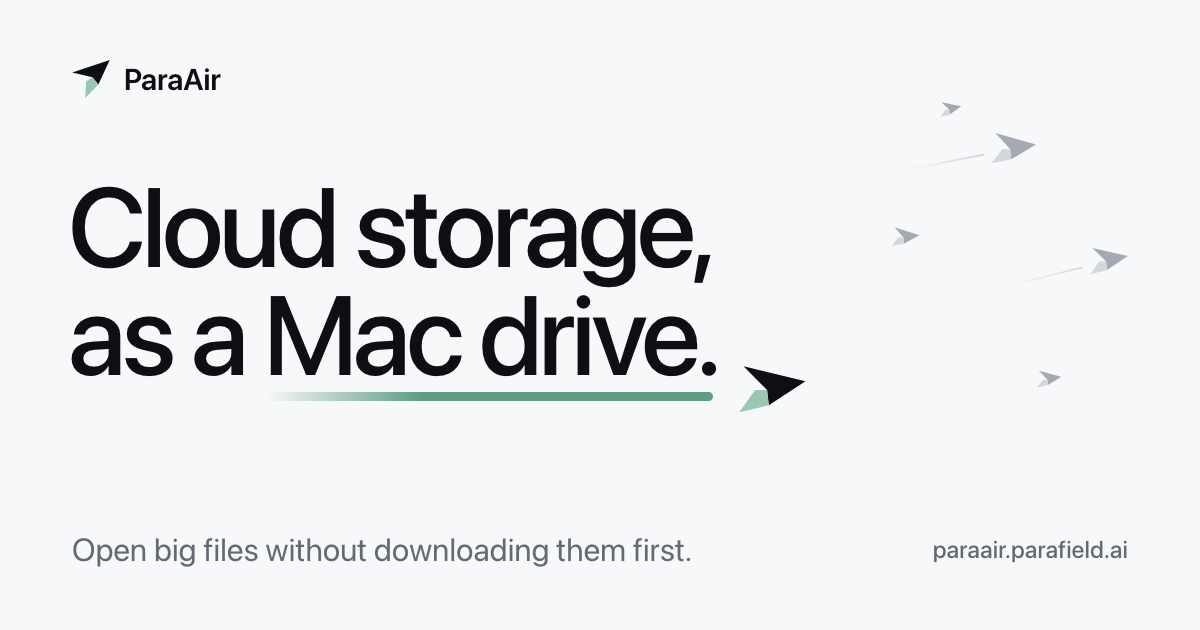
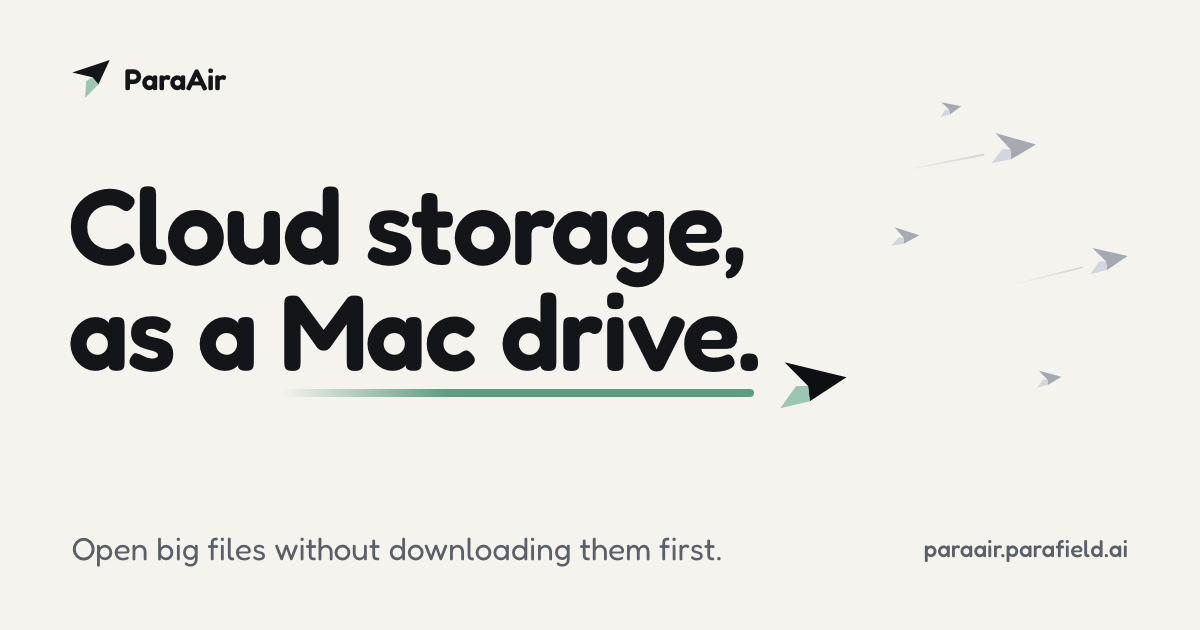
Site: one ParaAir mark, the app's, everywhere (#98)
ParaAir had two logos: the app's flat polygon plane with the sage tail
(Dock icon, menu bar, Finder drive icon, the link preview card) and the
launch redesign's shaded curved dart (website header, footer, Download
buttons, browser tab icon). The owner chose the app's mark as the one
logo. This puts it everywhere on the website, with no app change.

**What changes**
- **Marks on every page:** the header mark on all 13 pages, the pricing
table's and footer's, and the home page's shared symbols (`i-plane` on
paper, `i-plane-paper` on the ink Download buttons) are the app's two
polygons, coloured by the site's `.mark-a` / `.mark-b` (ink and sage).
On the ink buttons the wing is the app icon's paper (`--mark-paper:
#F1EFE7`).
- **Generator:** `scripts/build-legal-pages.py` draws the same mark, so
rebuilding the legal pages keeps it.
- **Tab icon:** `site/icon.svg` is the app icon's own SVG
(`macOS/Resources/ParaAirIcon.svg`); `glide.svg` is deleted.
`favicon.ico` was already the app icon and rebuilds byte-identical.
- **`site/logo-mark.svg`:** the mark on its own, ink and sage.
- **Drawn planes:** the small planes `motion.js` flies and the paper
plane `home.js` paints are the same two polygons.
- **Link preview card:** `scripts/og-card.html` now uses the site's
Fredoka on its warm paper, and `site/og-card.png` is rebuilt with
`scripts/build-site-images.sh`. Its mark already matched.

**Stays as is:** the hero's 3D plane that flies the story and lands on
[…]

diff --git a/site/pricing.html b/site/pricing.html
@@ -21,7 +21,7 @@
   <meta name="twitter:description" content="ParaAir is free and open source with your own storage. ParaAir Cloud Personal is $10 a month or $100 a year for 1 TB, half the price of Space, with a 7-day free trial.">
   <meta name="twitter:image" content="https://paraair.parafield.ai/og-card.png">
   <meta name="twitter:image:alt" content="The ParaAir paper plane and the words: Cloud storage, as a Mac drive.">
-  <link rel="icon" href="glide.svg" type="image/svg+xml">
+  <link rel="icon" href="icon.svg" type="image/svg+xml">
   <link rel="stylesheet" href="home.css">
   <link rel="stylesheet" href="pricing.css">
 </head>
@@ -33,7 +33,7 @@
 
   <header class="bar">
     <a class="brand" href="/" aria-label="ParaAir home">
-      <svg class="brand-mark" viewBox="0 0 100 100" aria-hidden="true"><defs><linearGradient id="bm-wingLit" gradientUnits="userSpaceOnUse" x1="93.6" y1="4" x2="6.4" y2="81.2"><stop offset="0" stop-color="#33353B"/><stop offset="1" stop-color="#0E0F12"/></linearGradient><linearGradient id="bm-keelLit" gradientUnits="userSpaceOnUse" x1="93.6" y1="4" x2="55.1" y2="96"><stop offset="0" stop-color="#D9DBDF"/><stop offset="1" stop-color="#9A9EA6"/></linearGradient><linearGradient id="bm-wing" gradientUnits="userSpaceOnUse" x1="93.6" y1="4" x2="40.2" y2="81.1"><stop offset="0" stop-color="#74787F"/><stop offset="1" stop-color="#42454C"/></linearGradient></defs><path fill="url(#bm-wingLit)" d="M89.6 9.8L40.2 81.1Q25.8 79.1 11.4 81.2Q6.4 81.2 10.1 77.9Q42.3 35.4 88.4 8.6Q93.6 4 89.6 9.8Z"/><path fill="url(#bm-keelLit)" d="M83.9 20.7L40.2 81.1Q46.5 86.5 51.9 92.8Q55.1 96 56.7 91.8Q77.4 59 83.9 20.7Z"/><path fill="url(#bm-wing)" d="M90.7 10.4Q82.9 43.9 62.9 71.9Q60.8 76.5 55.9 77.6Q47.8 78.2 40.2 81.1L89.6 9.8Q93.6 4 90.7 10.4Z"/><path fill="none" stroke="#FFFFFF" stroke-opacity="0.42" stroke-width="0.9" stroke-linecap="round" d="M90 9.2L40.2 81.1"/><path fill="none" stroke="#FFFFFF" stroke-opacity=".35" stroke-width="0.6" stroke-linecap="round" d="M10.1 77.9Q42.3 35.4 88.4 8.6"/></svg>
+      <svg class="brand-mark" viewBox="0 0 454 460" aria-hidden="true"><polygon class="mark-a" points="0,150 454,0 316,298 244,208"/><polygon class="mark-b" points="244,208 316,298 156,460 168,256"/></svg>
       <span>ParaAir</span>
     </a>
     <nav class="bar-nav" aria-label="Primary">
@@ -92,7 +92,7 @@
         <div class="meter-lane meter-stored" aria-hidden="true"><i></i><i></i><i></i><i></i></div>
         <p class="meter-key">Streamed and downloaded in a month</p>
         <div class="meter-lane meter-read" aria-hidden="true">
-          <svg class="meter-glider" viewBox="0 0 100 100" aria-hidden="true"><defs><linearGradient id="gbm-wingLit" gradientUnits="userSpaceOnUse" x1="93.6" y1="4" x2="6.4" y2="81.2"><stop offset="0" stop-color="#33353B"/><stop offset="1" stop-color="#0E0F12"/></linearGradient><linearGradient id="gbm-keelLit" gradientUnits="userSpaceOnUse" x1="93.6" y1="4" x2="55.1" y2="96"><stop offset="0" stop-color="#D9DBDF"/><stop offset="1" stop-color="#9A9EA6"/></linearGradient><linearGradient id="gbm-wing" gradientUnits="userSpaceOnUse" x1="93.6" y1="4" x2="40.2" y2="81.1"><stop offset="0" stop-color="#74787F"/><stop offset="1" stop-color="#42454C"/></linearGradient></defs><path fill="url(#gbm-wingLit)" d="M89.6 9.8L40.2 81.1Q25.8 79.1 11.4 81.2Q6.4 81.2 10.1 77.9Q42.3 35.4 88.4 8.6Q93.6 4 89.6 9.8Z"/><path fill="url(#gbm-keelLit)" d="M83.9 20.7L40.2 81.1Q46.5 86.5 51.9 92.8Q55.1 96 56.7 91.8Q77.4 59 83.9 20.7Z"/><path fill="url(#gbm-wing)" d="M90.7 10.4Q82.9 43.9 62.9 71.9Q60.8 76.5 55.9 77.6Q47.8 78.2 40.2 81.1L89.6 9.8Q93.6 4 90.7 10.4Z"/><path fill="none" stroke="#FFFFFF" stroke-opacity="0.42" stroke-width="0.9" stroke-linecap="round" d="M90 9.2L40.2 81.1"/><path fill="none" stroke="#FFFFFF" stroke-opacity=".35" stroke-width="0.6" stroke-linecap="round" d="M10.1 77.9Q42.3 35.4 88.4 8.6"/></svg>
+          <svg class="meter-glider" viewBox="0 0 454 460" aria-hidden="true"><polygon class="mark-a" points="0,150 454,0 316,298 244,208"/><polygon class="mark-b" points="244,208 316,298 156,460 168,256"/></svg>
           <i></i><i></i><i></i><i></i><i></i><i></i><i></i><i></i><i></i><i></i><i></i><i></i><i class="slow"></i><i class="slow"></i><i class="slow"></i><i class="slow"></i>
         </div>
         <p class="meter-scale"><span>3&nbsp;TB at full&nbsp;speed</span> <span>then about 100&nbsp;Mbit/s</span></p>
@@ -226,7 +226,7 @@
   </main>
 
   <footer class="foot">
-    <div class="foot-brand"><svg class="brand-mark foot-mark" viewBox="0 0 100 100" aria-hidden="true"><defs><linearGradient id="fbm-wingLit" gradientUnits="userSpaceOnUse" x1="93.6" y1="4" x2="6.4" y2="81.2"><stop offset="0" stop-color="#33353B"/><stop offset="1" stop-color="#0E0F12"/></linearGradient><linearGradient id="fbm-keelLit" gradientUnits="userSpaceOnUse" x1="93.6" y1="4" x2="55.1" y2="96"><stop offset="0" stop-color="#D9DBDF"/><stop offset="1" stop-color="#9A9EA6"/></linearGradient><linearGradient id="fbm-wing" gradientUnits="userSpaceOnUse" x1="93.6" y1="4" x2="40.2" y2="81.1"><stop offset="0" stop-color="#74787F"/><stop offset="1" stop-color="#42454C"/></linearGradient></defs><path fill="url(#fbm-wingLit)" d="M89.6 9.8L40.2 81.1Q25.8 79.1 11.4 81.2Q6.4 81.2 10.1 77.9Q42.3 35.4 88.4 8.6Q93.6 4 89.6 9.8Z"/><path fill="url(#fbm-keelLit)" d="M83.9 20.7L40.2 81.1Q46.5 86.5 51.9 92.8Q55.1 96 56.7 91.8Q77.4 59 83.9 20.7Z"/><path fill="url(#fbm-wing)" d="M90.7 10.4Q82.9 43.9 62.9 71.9Q60.8 76.5 55.9 77.6Q47.8 78.2 40.2 81.1L89.6 9.8Q93.6 4 90.7 10.4Z"/><path fill="none" stroke="#FFFFFF" stroke-opacity="0.42" stroke-width="0.9" stroke-linecap="round" d="M90 9.2L40.2 81.1"/><path fill="none" stroke="#FFFFFF" stroke-opacity=".35" stroke-width="0.6" stroke-linecap="round" d="M10.1 77.9Q42.3 35.4 88.4 8.6"/></svg>ParaAir <span>by Parafield</span></div>
+    <div class="foot-brand"><svg class="brand-mark foot-mark" viewBox="0 0 454 460" aria-hidden="true"><polygon class="mark-a" points="0,150 454,0 316,298 244,208"/><polygon class="mark-b" points="244,208 316,298 156,460 168,256"/></svg>ParaAir <span>by Parafield</span></div>
     <nav class="foot-legal" aria-label="Legal"><a href="/terms">Terms</a><a href="/privacy">Privacy</a><a href="/subscription-policy">Refunds</a><a href="/acceptable-use">Acceptable use</a><a href="/copyright">Copyright</a><a href="/legal">All legal</a></nav>
     <p><a href="https://github.com/parafieldai/ParaAir">Source code</a> (Apache-2.0) · Built on <a href="https://github.com/juicedata/juicefs">JuiceFS</a> · © 2026</p>
   </footer>

diff --git a/site/index.html b/site/index.html
@@ -22,7 +22,7 @@
   <meta name="twitter:description" content="Cloud storage as a Mac drive. Open big files without downloading them first. Free and open source on your own bucket, or ParaAir Cloud, planned at half the price of Space. Alpha for Apple Silicon Macs on macOS 26 or later.">
   <meta name="twitter:image" content="https://paraair.parafield.ai/og-card.png">
   <meta name="twitter:image:alt" content="The ParaAir paper plane and the words: Cloud storage, as a Mac drive.">
-  <link rel="icon" href="glide.svg" type="image/svg+xml">
+  <link rel="icon" href="icon.svg" type="image/svg+xml">
   <link rel="stylesheet" href="home.css">
   <link rel="stylesheet" href="hero.css">
 </head>
@@ -58,7 +58,7 @@
       <symbol id="t-tag" viewBox="0 0 20 20"><g fill="none" stroke="currentColor" stroke-width="1.5" stroke-linejoin="round"><path d="M10.6 3H16a1 1 0 0 1 1 1v5.4a1 1 0 0 1-.3.7l-7 7a1 1 0 0 1-1.4 0l-5.4-5.4a1 1 0 0 1 0-1.4l7-7a1 1 0 0 1 .7-.3z"/><circle cx="13.6" cy="6.4" r="1.1"/></g></symbol>
       <symbol id="t-more" viewBox="0 0 20 20"><g fill="currentColor"><circle cx="10" cy="10" r="7.6" fill="none" stroke="currentColor" stroke-width="1.4"/><circle cx="6.6" cy="10" r="1.05"/><circle cx="10" cy="10" r="1.05"/><circle cx="13.4" cy="10" r="1.05"/></g></symbol>
       <symbol id="t-search" viewBox="0 0 20 20"><g fill="none" stroke="currentColor" stroke-width="1.6" stroke-linecap="round"><circle cx="8.6" cy="8.6" r="5.4"/><path d="m12.7 12.7 4.3 4.3"/></g></symbol>
-      <!-- The ParaAir plane: ink on paper (i-plane), and paper on the ink buttons (i-plane-paper). --><linearGradient id="pi-wingLit" gradientUnits="userSpaceOnUse" x1="93.6" y1="4" x2="6.4" y2="81.2"><stop offset="0" stop-color="#33353B"/><stop offset="1" stop-color="#0E0F12"/></linearGradient><linearGradient id="pi-keelLit" gradientUnits="userSpaceOnUse" x1="93.6" y1="4" x2="55.1" y2="96"><stop offset="0" stop-color="#D9DBDF"/><stop offset="1" stop-color="#9A9EA6"/></linearGradient><linearGradient id="pi-wing" gradientUnits="userSpaceOnUse" x1="93.6" y1="4" x2="40.2" y2="81.1"><stop offset="0" stop-color="#74787F"/><stop offset="1" stop-color="#42454C"/></linearGradient><linearGradient id="pp-wingLit" gradientUnits="userSpaceOnUse" x1="93.6" y1="4" x2="6.4" y2="81.2"><stop offset="0" stop-color="#FFFFFF"/><stop offset="1" stop-color="#ECEDEF"/></linearGradient><linearGradient id="pp-keelLit" gradientUnits="userSpaceOnUse" x1="93.6" y1="4" x2="55.1" y2="96"><stop offset="0" stop-color="#80848C"/><stop offset="1" stop-color="#50545B"/></linearGradient><linearGradient id="pp-wing" gradientUnits="userSpaceOnUse" x1="93.6" y1="4" x2="40.2" y2="81.1"><stop offset="0" stop-color="#C9CCD2"/><stop offset="1" stop-color="#9EA2AA"/></linearGradient><symbol id="i-plane" viewBox="0 0 100 100"><path fill="url(#pi-wingLit)" d="M89.6 9.8L40.2 81.1Q25.8 79.1 11.4 81.2Q6.4 81.2 10.1 77.9Q42.3 35.4 88.4 8.6Q93.6 4 89.6 9.8Z"/><path fill="url(#pi-keelLit)" d="M83.9 20.7L40.2 81.1Q46.5 86.5 51.9 92.8Q55.1 96 56.7 91.8Q77.4 59 83.9 20.7Z"/><path fill="url(#pi-wing)" d="M90.7 10.4Q82.9 43.9 62.9 71.9Q60.8 76.5 55.9 77.6Q47.8 78.2 40.2 81.1L89.6 9.8Q93.6 4 90.7 10.4Z"/><path fill="none" stroke="#FFFFFF" stroke-opacity="0.42" stroke-width="0.9" stroke-linecap="round" d="M90 9.2L40.2 81.1"/><path fill="none" stroke="#FFFFFF" stroke-opacity=".35" stroke-width="0.6" stroke-linecap="round" d="M10.1 77.9Q42.3 35.4 88.4 8.6"/></symbol><symbol id="i-plane-paper" viewBox="0 0 100 100"><path fill="url(#pp-wingLit)" d="M89.6 9.8L40.2 81.1Q25.8 79.1 11.4 81.2Q6.4 81.2 10.1 77.9Q42.3 35.4 88.4 8.6Q93.6 4 89.6 9.8Z"/><path fill="url(#pp-keelLit)" d="M83.9 20.7L40.2 81.1Q46.5 86.5 51.9 92.8Q55.1 96 56.7 91.8Q77.4 59 83.9 20.7Z"/><path fill="url(#pp-wing)" d="M90.7 10.4Q82.9 43.9 62.9 71.9Q60.8 76.5 55.9 77.6Q47.8 78.2 40.2 81.1L89.6 9.8Q93.6 4 90.7 10.4Z"/><path fill="none" stroke="#141518" stroke-opacity="0.3" stroke-width="0.9" stroke-linecap="round" d="M90 9.2L40.2 81.1"/><path fill="none" stroke="#FFFFFF" stroke-opacity=".35" stroke-width="0.6" stroke-linecap="round" d="M10.1 77.9Q42.3 35.4 88.4 8.6"/></symbol>
+      <!-- The ParaAir mark, as the app icon draws it: ink and sage on paper (i-plane), paper and sage on the ink buttons (i-plane-paper). --><symbol id="i-plane" viewBox="0 0 454 460"><polygon class="mark-a" points="0,150 454,0 316,298 244,208"/><polygon class="mark-b" points="244,208 316,298 156,460 168,256"/></symbol><symbol id="i-plane-paper" viewBox="0 0 454 460"><polygon class="mark-a mark-on-ink" points="0,150 454,0 316,298 244,208"/><polygon class="mark-b" points="244,208 316,298 156,460 168,256"/></symbol>
       <symbol id="i-github" viewBox="0 0 16 16"><path fill="currentColor" d="M8 0C3.58 0 0 3.58 0 8c0 3.54 2.29 6.53 5.47 7.59.4.07.55-.17.55-.38 0-.19-.01-.82-.01-1.49-2.01.37-2.53-.49-2.69-.94-.09-.23-.48-.94-.82-1.13-.28-.15-.68-.52-.01-.53.63-.01 1.08.58 1.23.82.72 1.21 1.87.87 2.33.66.07-.52.28-.87.51-1.07-1.78-.2-3.64-.89-3.64-3.95 0-.87.31-1.59.82-2.15-.08-.2-.36-1.02.08-2.12 0 0 .67-.21 2.2.82.64-.18 1.32-.27 2-.27.68 0 1.36.09 2 .27 1.53-1.04 2.2-.82 2.2-.82.44 1.1.16 1.92.08 2.12.51.56.82 1.27.82 2.15 0 3.07-1.87 3.75-3.65 3.95.29.25.54.73.54 1.48 0 1.07-.01 1.93-.01 2.2 0 .21.15.46.55.38A8.013 8.013 0 0 0 16 8c0-4.42-3.58-8-8-8z"/></symbol>
     </defs>
   </svg>

diff --git a/site/help/export.html b/site/help/export.html
@@ -21,14 +21,14 @@
   <meta name="twitter:description" content="How to copy your files out of ParaAir Cloud. When a plan ends, the drive is read-only for 30 days, then the files are deleted.">
   <meta name="twitter:image" content="https://paraair.parafield.ai/og-card.png">
   <meta name="twitter:image:alt" content="The ParaAir paper plane and the words: Cloud storage, as a Mac drive.">
-  <link rel="icon" href="/glide.svg" type="image/svg+xml">
+  <link rel="icon" href="/icon.svg" type="image/svg+xml">
   <link rel="stylesheet" href="/styles.css">
 </head>
 <body class="legal-page">
   <a class="skip" href="#main">Skip to content</a>
   <header class="masthead">
     <a class="brand" href="/" aria-label="ParaAir home">
-      <svg class="brand-mark" viewBox="0 0 100 100" aria-hidden="true"><defs><linearGradient id="bm-wingLit" gradientUnits="userSpaceOnUse" x1="93.6" y1="4" x2="6.4" y2="81.2"><stop offset="0" stop-color="#33353B"/><stop offset="1" stop-color="#0E0F12"/></linearGradient><linearGradient id="bm-keelLit" gradientUnits="userSpaceOnUse" x1="93.6" y1="4" x2="55.1" y2="96"><stop offset="0" stop-color="#D9DBDF"/><stop offset="1" stop-color="#9A9EA6"/></linearGradient><linearGradient id="bm-wing" gradientUnits="userSpaceOnUse" x1="93.6" y1="4" x2="40.2" y2="81.1"><stop offset="0" stop-color="#74787F"/><stop offset="1" stop-color="#42454C"/></linearGradient></defs><path fill="url(#bm-wingLit)" d="M89.6 9.8L40.2 81.1Q25.8 79.1 11.4 81.2Q6.4 81.2 10.1 77.9Q42.3 35.4 88.4 8.6Q93.6 4 89.6 9.8Z"/><path fill="url(#bm-keelLit)" d="M83.9 20.7L40.2 81.1Q46.5 86.5 51.9 92.8Q55.1 96 56.7 91.8Q77.4 59 83.9 20.7Z"/><path fill="url(#bm-wing)" d="M90.7 10.4Q82.9 43.9 62.9 71.9Q60.8 76.5 55.9 77.6Q47.8 78.2 40.2 81.1L89.6 9.8Q93.6 4 90.7 10.4Z"/><path fill="none" stroke="#FFFFFF" stroke-opacity="0.42" stroke-width="0.9" stroke-linecap="round" d="M90 9.2L40.2 81.1"/><path fill="none" stroke="#FFFFFF" stroke-opacity=".35" stroke-width="0.6" stroke-linecap="round" d="M10.1 77.9Q42.3 35.4 88.4 8.6"/></svg>
+      <svg class="brand-mark" viewBox="0 0 454 460" aria-hidden="true"><polygon class="mark-a" points="0,150 454,0 316,298 244,208"/><polygon class="mark-b" points="244,208 316,298 156,460 168,256"/></svg>
       <span>ParaAir</span>
     </a>
     <nav class="nav" aria-label="Primary">

diff --git a/site/get-started.html b/site/get-started.html
@@ -21,7 +21,7 @@
   <meta name="twitter:description" content="From the download to a drive in Finder: install ParaAir, turn on its drive, make your ParaAir Cloud account, start your plan and sign in.">
   <meta name="twitter:image" content="https://paraair.parafield.ai/og-card.png">
   <meta name="twitter:image:alt" content="The ParaAir paper plane and the words: Cloud storage, as a Mac drive.">
-  <link rel="icon" href="glide.svg" type="image/svg+xml">
+  <link rel="icon" href="icon.svg" type="image/svg+xml">
   <link rel="stylesheet" href="styles.css">
 </head>
 <body>
@@ -33,7 +33,7 @@
 
   <header class="masthead">
     <a class="brand" href="/" aria-label="ParaAir home">
-      <svg class="brand-mark" viewBox="0 0 100 100" aria-hidden="true"><defs><linearGradient id="bm-wingLit" gradientUnits="userSpaceOnUse" x1="93.6" y1="4" x2="6.4" y2="81.2"><stop offset="0" stop-color="#33353B"/><stop offset="1" stop-color="#0E0F12"/></linearGradient><linearGradient id="bm-keelLit" gradientUnits="userSpaceOnUse" x1="93.6" y1="4" x2="55.1" y2="96"><stop offset="0" stop-color="#D9DBDF"/><stop offset="1" stop-color="#9A9EA6"/></linearGradient><linearGradient id="bm-wing" gradientUnits="userSpaceOnUse" x1="93.6" y1="4" x2="40.2" y2="81.1"><stop offset="0" stop-color="#74787F"/><stop offset="1" stop-color="#42454C"/></linearGradient></defs><path fill="url(#bm-wingLit)" d="M89.6 9.8L40.2 81.1Q25.8 79.1 11.4 81.2Q6.4 81.2 10.1 77.9Q42.3 35.4 88.4 8.6Q93.6 4 89.6 9.8Z"/><path fill="url(#bm-keelLit)" d="M83.9 20.7L40.2 81.1Q46.5 86.5 51.9 92.8Q55.1 96 56.7 91.8Q77.4 59 83.9 20.7Z"/><path fill="url(#bm-wing)" d="M90.7 10.4Q82.9 43.9 62.9 71.9Q60.8 76.5 55.9 77.6Q47.8 78.2 40.2 81.1L89.6 9.8Q93.6 4 90.7 10.4Z"/><path fill="none" stroke="#FFFFFF" stroke-opacity="0.42" stroke-width="0.9" stroke-linecap="round" d="M90 9.2L40.2 81.1"/><path fill="none" stroke="#FFFFFF" stroke-opacity=".35" stroke-width="0.6" stroke-linecap="round" d="M10.1 77.9Q42.3 35.4 88.4 8.6"/></svg>
+      <svg class="brand-mark" viewBox="0 0 454 460" aria-hidden="true"><polygon class="mark-a" points="0,150 454,0 316,298 244,208"/><polygon class="mark-b" points="244,208 316,298 156,460 168,256"/></svg>
       <span>ParaAir</span>
     </a>
     <nav class="nav" aria-label="Primary">

diff --git a/site/terms.html b/site/terms.html
@@ -21,14 +21,14 @@
   <meta name="twitter:description" content="The agreement for the ParaAir app, this website and ParaAir Cloud.">
   <meta name="twitter:image" content="https://paraair.parafield.ai/og-card.png">
   <meta name="twitter:image:alt" content="The ParaAir paper plane and the words: Cloud storage, as a Mac drive.">
-  <link rel="icon" href="glide.svg" type="image/svg+xml">
+  <link rel="icon" href="icon.svg" type="image/svg+xml">
   <link rel="stylesheet" href="styles.css">
 </head>
 <body class="legal-page">
   <a class="skip" href="#main">Skip to content</a>
   <header class="masthead">
     <a class="brand" href="/" aria-label="ParaAir home">
-      <svg class="brand-mark" viewBox="0 0 100 100" aria-hidden="true"><defs><linearGradient id="bm-wingLit" gradientUnits="userSpaceOnUse" x1="93.6" y1="4" x2="6.4" y2="81.2"><stop offset="0" stop-color="#33353B"/><stop offset="1" stop-color="#0E0F12"/></linearGradient><linearGradient id="bm-keelLit" gradientUnits="userSpaceOnUse" x1="93.6" y1="4" x2="55.1" y2="96"><stop offset="0" stop-color="#D9DBDF"/><stop offset="1" stop-color="#9A9EA6"/></linearGradient><linearGradient id="bm-wing" gradientUnits="userSpaceOnUse" x1="93.6" y1="4" x2="40.2" y2="81.1"><stop offset="0" stop-color="#74787F"/><stop offset="1" stop-color="#42454C"/></linearGradient></defs><path fill="url(#bm-wingLit)" d="M89.6 9.8L40.2 81.1Q25.8 79.1 11.4 81.2Q6.4 81.2 10.1 77.9Q42.3 35.4 88.4 8.6Q93.6 4 89.6 9.8Z"/><path fill="url(#bm-keelLit)" d="M83.9 20.7L40.2 81.1Q46.5 86.5 51.9 92.8Q55.1 96 56.7 91.8Q77.4 59 83.9 20.7Z"/><path fill="url(#bm-wing)" d="M90.7 10.4Q82.9 43.9 62.9 71.9Q60.8 76.5 55.9 77.6Q47.8 78.2 40.2 81.1L89.6 9.8Q93.6 4 90.7 10.4Z"/><path fill="none" stroke="#FFFFFF" stroke-opacity="0.42" stroke-width="0.9" stroke-linecap="round" d="M90 9.2L40.2 81.1"/><path fill="none" stroke="#FFFFFF" stroke-opacity=".35" stroke-width="0.6" stroke-linecap="round" d="M10.1 77.9Q42.3 35.4 88.4 8.6"/></svg>
+      <svg class="brand-mark" viewBox="0 0 454 460" aria-hidden="true"><polygon class="mark-a" points="0,150 454,0 316,298 244,208"/><polygon class="mark-b" points="244,208 316,298 156,460 168,256"/></svg>
       <span>ParaAir</span>
     </a>
     <nav class="nav" aria-label="Primary">

diff --git a/site/legal.html b/site/legal.html
@@ -21,14 +21,14 @@
   <meta name="twitter:description" content="ParaAir&#x27;s terms, policies and how to reach Parafield Inc.">
   <meta name="twitter:image" content="https://paraair.parafield.ai/og-card.png">
   <meta name="twitter:image:alt" content="The ParaAir paper plane and the words: Cloud storage, as a Mac drive.">
-  <link rel="icon" href="glide.svg" type="image/svg+xml">
+  <link rel="icon" href="icon.svg" type="image/svg+xml">
   <link rel="stylesheet" href="styles.css">
 </head>
 <body class="legal-page">
   <a class="skip" href="#main">Skip to content</a>
   <header class="masthead">
     <a class="brand" href="/" aria-label="ParaAir home">
-      <svg class="brand-mark" viewBox="0 0 100 100" aria-hidden="true"><defs><linearGradient id="bm-wingLit" gradientUnits="userSpaceOnUse" x1="93.6" y1="4" x2="6.4" y2="81.2"><stop offset="0" stop-color="#33353B"/><stop offset="1" stop-color="#0E0F12"/></linearGradient><linearGradient id="bm-keelLit" gradientUnits="userSpaceOnUse" x1="93.6" y1="4" x2="55.1" y2="96"><stop offset="0" stop-color="#D9DBDF"/><stop offset="1" stop-color="#9A9EA6"/></linearGradient><linearGradient id="bm-wing" gradientUnits="userSpaceOnUse" x1="93.6" y1="4" x2="40.2" y2="81.1"><stop offset="0" stop-color="#74787F"/><stop offset="1" stop-color="#42454C"/></linearGradient></defs><path fill="url(#bm-wingLit)" d="M89.6 9.8L40.2 81.1Q25.8 79.1 11.4 81.2Q6.4 81.2 10.1 77.9Q42.3 35.4 88.4 8.6Q93.6 4 89.6 9.8Z"/><path fill="url(#bm-keelLit)" d="M83.9 20.7L40.2 81.1Q46.5 86.5 51.9 92.8Q55.1 96 56.7 91.8Q77.4 59 83.9 20.7Z"/><path fill="url(#bm-wing)" d="M90.7 10.4Q82.9 43.9 62.9 71.9Q60.8 76.5 55.9 77.6Q47.8 78.2 40.2 81.1L89.6 9.8Q93.6 4 90.7 10.4Z"/><path fill="none" stroke="#FFFFFF" stroke-opacity="0.42" stroke-width="0.9" stroke-linecap="round" d="M90 9.2L40.2 81.1"/><path fill="none" stroke="#FFFFFF" stroke-opacity=".35" stroke-width="0.6" stroke-linecap="round" d="M10.1 77.9Q42.3 35.4 88.4 8.6"/></svg>
+      <svg class="brand-mark" viewBox="0 0 454 460" aria-hidden="true"><polygon class="mark-a" points="0,150 454,0 316,298 244,208"/><polygon class="mark-b" points="244,208 316,298 156,460 168,256"/></svg>
       <span>ParaAir</span>
     </a>
     <nav class="nav" aria-label="Primary">

diff --git a/site/copyright.html b/site/copyright.html
@@ -21,14 +21,14 @@
   <meta name="twitter:description" content="Copyright notices, counter-notices and our designated agent.">
   <meta name="twitter:image" content="https://paraair.parafield.ai/og-card.png">
   <meta name="twitter:image:alt" content="The ParaAir paper plane and the words: Cloud storage, as a Mac drive.">
-  <link rel="icon" href="glide.svg" type="image/svg+xml">
+  <link rel="icon" href="icon.svg" type="image/svg+xml">
   <link rel="stylesheet" href="styles.css">
 </head>
 <body class="legal-page">
   <a class="skip" href="#main">Skip to content</a>
   <header class="masthead">
     <a class="brand" href="/" aria-label="ParaAir home">
-      <svg class="brand-mark" viewBox="0 0 100 100" aria-hidden="true"><defs><linearGradient id="bm-wingLit" gradientUnits="userSpaceOnUse" x1="93.6" y1="4" x2="6.4" y2="81.2"><stop offset="0" stop-color="#33353B"/><stop offset="1" stop-color="#0E0F12"/></linearGradient><linearGradient id="bm-keelLit" gradientUnits="userSpaceOnUse" x1="93.6" y1="4" x2="55.1" y2="96"><stop offset="0" stop-color="#D9DBDF"/><stop offset="1" stop-color="#9A9EA6"/></linearGradient><linearGradient id="bm-wing" gradientUnits="userSpaceOnUse" x1="93.6" y1="4" x2="40.2" y2="81.1"><stop offset="0" stop-color="#74787F"/><stop offset="1" stop-color="#42454C"/></linearGradient></defs><path fill="url(#bm-wingLit)" d="M89.6 9.8L40.2 81.1Q25.8 79.1 11.4 81.2Q6.4 81.2 10.1 77.9Q42.3 35.4 88.4 8.6Q93.6 4 89.6 9.8Z"/><path fill="url(#bm-keelLit)" d="M83.9 20.7L40.2 81.1Q46.5 86.5 51.9 92.8Q55.1 96 56.7 91.8Q77.4 59 83.9 20.7Z"/><path fill="url(#bm-wing)" d="M90.7 10.4Q82.9 43.9 62.9 71.9Q60.8 76.5 55.9 77.6Q47.8 78.2 40.2 81.1L89.6 9.8Q93.6 4 90.7 10.4Z"/><path fill="none" stroke="#FFFFFF" stroke-opacity="0.42" stroke-width="0.9" stroke-linecap="round" d="M90 9.2L40.2 81.1"/><path fill="none" stroke="#FFFFFF" stroke-opacity=".35" stroke-width="0.6" stroke-linecap="round" d="M10.1 77.9Q42.3 35.4 88.4 8.6"/></svg>
+      <svg class="brand-mark" viewBox="0 0 454 460" aria-hidden="true"><polygon class="mark-a" points="0,150 454,0 316,298 244,208"/><polygon class="mark-b" points="244,208 316,298 156,460 168,256"/></svg>
       <span>ParaAir</span>
     </a>
     <nav class="nav" aria-label="Primary">

diff --git a/site/subscription-policy.html b/site/subscription-policy.html
@@ -21,14 +21,14 @@
   <meta name="twitter:description" content="Billing, renewal, the free trial, cancelling and refunds.">
   <meta name="twitter:image" content="https://paraair.parafield.ai/og-card.png">
   <meta name="twitter:image:alt" content="The ParaAir paper plane and the words: Cloud storage, as a Mac drive.">
-  <link rel="icon" href="glide.svg" type="image/svg+xml">
+  <link rel="icon" href="icon.svg" type="image/svg+xml">
   <link rel="stylesheet" href="styles.css">
 </head>
 <body class="legal-page">
   <a class="skip" href="#main">Skip to content</a>
   <header class="masthead">
     <a class="brand" href="/" aria-label="ParaAir home">
-      <svg class="brand-mark" viewBox="0 0 100 100" aria-hidden="true"><defs><linearGradient id="bm-wingLit" gradientUnits="userSpaceOnUse" x1="93.6" y1="4" x2="6.4" y2="81.2"><stop offset="0" stop-color="#33353B"/><stop offset="1" stop-color="#0E0F12"/></linearGradient><linearGradient id="bm-keelLit" gradientUnits="userSpaceOnUse" x1="93.6" y1="4" x2="55.1" y2="96"><stop offset="0" stop-color="#D9DBDF"/><stop offset="1" stop-color="#9A9EA6"/></linearGradient><linearGradient id="bm-wing" gradientUnits="userSpaceOnUse" x1="93.6" y1="4" x2="40.2" y2="81.1"><stop offset="0" stop-color="#74787F"/><stop offset="1" stop-color="#42454C"/></linearGradient></defs><path fill="url(#bm-wingLit)" d="M89.6 9.8L40.2 81.1Q25.8 79.1 11.4 81.2Q6.4 81.2 10.1 77.9Q42.3 35.4 88.4 8.6Q93.6 4 89.6 9.8Z"/><path fill="url(#bm-keelLit)" d="M83.9 20.7L40.2 81.1Q46.5 86.5 51.9 92.8Q55.1 96 56.7 91.8Q77.4 59 83.9 20.7Z"/><path fill="url(#bm-wing)" d="M90.7 10.4Q82.9 43.9 62.9 71.9Q60.8 76.5 55.9 77.6Q47.8 78.2 40.2 81.1L89.6 9.8Q93.6 4 90.7 10.4Z"/><path fill="none" stroke="#FFFFFF" stroke-opacity="0.42" stroke-width="0.9" stroke-linecap="round" d="M90 9.2L40.2 81.1"/><path fill="none" stroke="#FFFFFF" stroke-opacity=".35" stroke-width="0.6" stroke-linecap="round" d="M10.1 77.9Q42.3 35.4 88.4 8.6"/></svg>
+      <svg class="brand-mark" viewBox="0 0 454 460" aria-hidden="true"><polygon class="mark-a" points="0,150 454,0 316,298 244,208"/><polygon class="mark-b" points="244,208 316,298 156,460 168,256"/></svg>
       <span>ParaAir</span>
     </a>
     <nav class="nav" aria-label="Primary">

diff --git a/site/cloud-terms.html b/site/cloud-terms.html
@@ -21,14 +21,14 @@
   <meta name="twitter:description" content="What the paid storage service includes and how it works.">
   <meta name="twitter:image" content="https://paraair.parafield.ai/og-card.png">
   <meta name="twitter:image:alt" content="The ParaAir paper plane and the words: Cloud storage, as a Mac drive.">
-  <link rel="icon" href="glide.svg" type="image/svg+xml">
+  <link rel="icon" href="icon.svg" type="image/svg+xml">
   <link rel="stylesheet" href="styles.css">
 </head>
 <body class="legal-page">
   <a class="skip" href="#main">Skip to content</a>
   <header class="masthead">
     <a class="brand" href="/" aria-label="ParaAir home">
-      <svg class="brand-mark" viewBox="0 0 100 100" aria-hidden="true"><defs><linearGradient id="bm-wingLit" gradientUnits="userSpaceOnUse" x1="93.6" y1="4" x2="6.4" y2="81.2"><stop offset="0" stop-color="#33353B"/><stop offset="1" stop-color="#0E0F12"/></linearGradient><linearGradient id="bm-keelLit" gradientUnits="userSpaceOnUse" x1="93.6" y1="4" x2="55.1" y2="96"><stop offset="0" stop-color="#D9DBDF"/><stop offset="1" stop-color="#9A9EA6"/></linearGradient><linearGradient id="bm-wing" gradientUnits="userSpaceOnUse" x1="93.6" y1="4" x2="40.2" y2="81.1"><stop offset="0" stop-color="#74787F"/><stop offset="1" stop-color="#42454C"/></linearGradient></defs><path fill="url(#bm-wingLit)" d="M89.6 9.8L40.2 81.1Q25.8 79.1 11.4 81.2Q6.4 81.2 10.1 77.9Q42.3 35.4 88.4 8.6Q93.6 4 89.6 9.8Z"/><path fill="url(#bm-keelLit)" d="M83.9 20.7L40.2 81.1Q46.5 86.5 51.9 92.8Q55.1 96 56.7 91.8Q77.4 59 83.9 20.7Z"/><path fill="url(#bm-wing)" d="M90.7 10.4Q82.9 43.9 62.9 71.9Q60.8 76.5 55.9 77.6Q47.8 78.2 40.2 81.1L89.6 9.8Q93.6 4 90.7 10.4Z"/><path fill="none" stroke="#FFFFFF" stroke-opacity="0.42" stroke-width="0.9" stroke-linecap="round" d="M90 9.2L40.2 81.1"/><path fill="none" stroke="#FFFFFF" stroke-opacity=".35" stroke-width="0.6" stroke-linecap="round" d="M10.1 77.9Q42.3 35.4 88.4 8.6"/></svg>
+      <svg class="brand-mark" viewBox="0 0 454 460" aria-hidden="true"><polygon class="mark-a" points="0,150 454,0 316,298 244,208"/><polygon class="mark-b" points="244,208 316,298 156,460 168,256"/></svg>
       <span>ParaAir</span>
     </a>
     <nav class="nav" aria-label="Primary">

diff --git a/site/privacy.html b/site/privacy.html
@@ -21,14 +21,14 @@
   <meta name="twitter:description" content="What we collect, why, who processes it and your choices.">
   <meta name="twitter:image" content="https://paraair.parafield.ai/og-card.png">
   <meta name="twitter:image:alt" content="The ParaAir paper plane and the words: Cloud storage, as a Mac drive.">
-  <link rel="icon" href="glide.svg" type="image/svg+xml">
+  <link rel="icon" href="icon.svg" type="image/svg+xml">
   <link rel="stylesheet" href="styles.css">
 </head>
 <body class="legal-page">
   <a class="skip" href="#main">Skip to content</a>
   <header class="masthead">
     <a class="brand" href="/" aria-label="ParaAir home">
-      <svg class="brand-mark" viewBox="0 0 100 100" aria-hidden="true"><defs><linearGradient id="bm-wingLit" gradientUnits="userSpaceOnUse" x1="93.6" y1="4" x2="6.4" y2="81.2"><stop offset="0" stop-color="#33353B"/><stop offset="1" stop-color="#0E0F12"/></linearGradient><linearGradient id="bm-keelLit" gradientUnits="userSpaceOnUse" x1="93.6" y1="4" x2="55.1" y2="96"><stop offset="0" stop-color="#D9DBDF"/><stop offset="1" stop-color="#9A9EA6"/></linearGradient><linearGradient id="bm-wing" gradientUnits="userSpaceOnUse" x1="93.6" y1="4" x2="40.2" y2="81.1"><stop offset="0" stop-color="#74787F"/><stop offset="1" stop-color="#42454C"/></linearGradient></defs><path fill="url(#bm-wingLit)" d="M89.6 9.8L40.2 81.1Q25.8 79.1 11.4 81.2Q6.4 81.2 10.1 77.9Q42.3 35.4 88.4 8.6Q93.6 4 89.6 9.8Z"/><path fill="url(#bm-keelLit)" d="M83.9 20.7L40.2 81.1Q46.5 86.5 51.9 92.8Q55.1 96 56.7 91.8Q77.4 59 83.9 20.7Z"/><path fill="url(#bm-wing)" d="M90.7 10.4Q82.9 43.9 62.9 71.9Q60.8 76.5 55.9 77.6Q47.8 78.2 40.2 81.1L89.6 9.8Q93.6 4 90.7 10.4Z"/><path fill="none" stroke="#FFFFFF" stroke-opacity="0.42" stroke-width="0.9" stroke-linecap="round" d="M90 9.2L40.2 81.1"/><path fill="none" stroke="#FFFFFF" stroke-opacity=".35" stroke-width="0.6" stroke-linecap="round" d="M10.1 77.9Q42.3 35.4 88.4 8.6"/></svg>
+      <svg class="brand-mark" viewBox="0 0 454 460" aria-hidden="true"><polygon class="mark-a" points="0,150 454,0 316,298 244,208"/><polygon class="mark-b" points="244,208 316,298 156,460 168,256"/></svg>
       <span>ParaAir</span>
     </a>
     <nav class="nav" aria-label="Primary">

diff --git a/site/law-enforcement.html b/site/law-enforcement.html
@@ -21,14 +21,14 @@
   <meta name="twitter:description" content="How we respond to requests from governments and courts.">
   <meta name="twitter:image" content="https://paraair.parafield.ai/og-card.png">
   <meta name="twitter:image:alt" content="The ParaAir paper plane and the words: Cloud storage, as a Mac drive.">
-  <link rel="icon" href="glide.svg" type="image/svg+xml">
+  <link rel="icon" href="icon.svg" type="image/svg+xml">
   <link rel="stylesheet" href="styles.css">
 </head>
 <body class="legal-page">
   <a class="skip" href="#main">Skip to content</a>
   <header class="masthead">
     <a class="brand" href="/" aria-label="ParaAir home">
-      <svg class="brand-mark" viewBox="0 0 100 100" aria-hidden="true"><defs><linearGradient id="bm-wingLit" gradientUnits="userSpaceOnUse" x1="93.6" y1="4" x2="6.4" y2="81.2"><stop offset="0" stop-color="#33353B"/><stop offset="1" stop-color="#0E0F12"/></linearGradient><linearGradient id="bm-keelLit" gradientUnits="userSpaceOnUse" x1="93.6" y1="4" x2="55.1" y2="96"><stop offset="0" stop-color="#D9DBDF"/><stop offset="1" stop-color="#9A9EA6"/></linearGradient><linearGradient id="bm-wing" gradientUnits="userSpaceOnUse" x1="93.6" y1="4" x2="40.2" y2="81.1"><stop offset="0" stop-color="#74787F"/><stop offset="1" stop-color="#42454C"/></linearGradient></defs><path fill="url(#bm-wingLit)" d="M89.6 9.8L40.2 81.1Q25.8 79.1 11.4 81.2Q6.4 81.2 10.1 77.9Q42.3 35.4 88.4 8.6Q93.6 4 89.6 9.8Z"/><path fill="url(#bm-keelLit)" d="M83.9 20.7L40.2 81.1Q46.5 86.5 51.9 92.8Q55.1 96 56.7 91.8Q77.4 59 83.9 20.7Z"/><path fill="url(#bm-wing)" d="M90.7 10.4Q82.9 43.9 62.9 71.9Q60.8 76.5 55.9 77.6Q47.8 78.2 40.2 81.1L89.6 9.8Q93.6 4 90.7 10.4Z"/><path fill="none" stroke="#FFFFFF" stroke-opacity="0.42" stroke-width="0.9" stroke-linecap="round" d="M90 9.2L40.2 81.1"/><path fill="none" stroke="#FFFFFF" stroke-opacity=".35" stroke-width="0.6" stroke-linecap="round" d="M10.1 77.9Q42.3 35.4 88.4 8.6"/></svg>
+      <svg class="brand-mark" viewBox="0 0 454 460" aria-hidden="true"><polygon class="mark-a" points="0,150 454,0 316,298 244,208"/><polygon class="mark-b" points="244,208 316,298 156,460 168,256"/></svg>
       <span>ParaAir</span>
     </a>
     <nav class="nav" aria-label="Primary">

diff --git a/site/acceptable-use.html b/site/acceptable-use.html
@@ -21,14 +21,14 @@
   <meta name="twitter:description" content="What you may not store or do, and how to report abuse.">
   <meta name="twitter:image" content="https://paraair.parafield.ai/og-card.png">
   <meta name="twitter:image:alt" content="The ParaAir paper plane and the words: Cloud storage, as a Mac drive.">
-  <link rel="icon" href="glide.svg" type="image/svg+xml">
+  <link rel="icon" href="icon.svg" type="image/svg+xml">
   <link rel="stylesheet" href="styles.css">
 </head>
 <body class="legal-page">
   <a class="skip" href="#main">Skip to content</a>
   <header class="masthead">
     <a class="brand" href="/" aria-label="ParaAir home">
-      <svg class="brand-mark" viewBox="0 0 100 100" aria-hidden="true"><defs><linearGradient id="bm-wingLit" gradientUnits="userSpaceOnUse" x1="93.6" y1="4" x2="6.4" y2="81.2"><stop offset="0" stop-color="#33353B"/><stop offset="1" stop-color="#0E0F12"/></linearGradient><linearGradient id="bm-keelLit" gradientUnits="userSpaceOnUse" x1="93.6" y1="4" x2="55.1" y2="96"><stop offset="0" stop-color="#D9DBDF"/><stop offset="1" stop-color="#9A9EA6"/></linearGradient><linearGradient id="bm-wing" gradientUnits="userSpaceOnUse" x1="93.6" y1="4" x2="40.2" y2="81.1"><stop offset="0" stop-color="#74787F"/><stop offset="1" stop-color="#42454C"/></linearGradient></defs><path fill="url(#bm-wingLit)" d="M89.6 9.8L40.2 81.1Q25.8 79.1 11.4 81.2Q6.4 81.2 10.1 77.9Q42.3 35.4 88.4 8.6Q93.6 4 89.6 9.8Z"/><path fill="url(#bm-keelLit)" d="M83.9 20.7L40.2 81.1Q46.5 86.5 51.9 92.8Q55.1 96 56.7 91.8Q77.4 59 83.9 20.7Z"/><path fill="url(#bm-wing)" d="M90.7 10.4Q82.9 43.9 62.9 71.9Q60.8 76.5 55.9 77.6Q47.8 78.2 40.2 81.1L89.6 9.8Q93.6 4 90.7 10.4Z"/><path fill="none" stroke="#FFFFFF" stroke-opacity="0.42" stroke-width="0.9" stroke-linecap="round" d="M90 9.2L40.2 81.1"/><path fill="none" stroke="#FFFFFF" stroke-opacity=".35" stroke-width="0.6" stroke-linecap="round" d="M10.1 77.9Q42.3 35.4 88.4 8.6"/></svg>
+      <svg class="brand-mark" viewBox="0 0 454 460" aria-hidden="true"><polygon class="mark-a" points="0,150 454,0 316,298 244,208"/><polygon class="mark-b" points="244,208 316,298 156,460 168,256"/></svg>
       <span>ParaAir</span>
     </a>
     <nav class="nav" aria-label="Primary">
